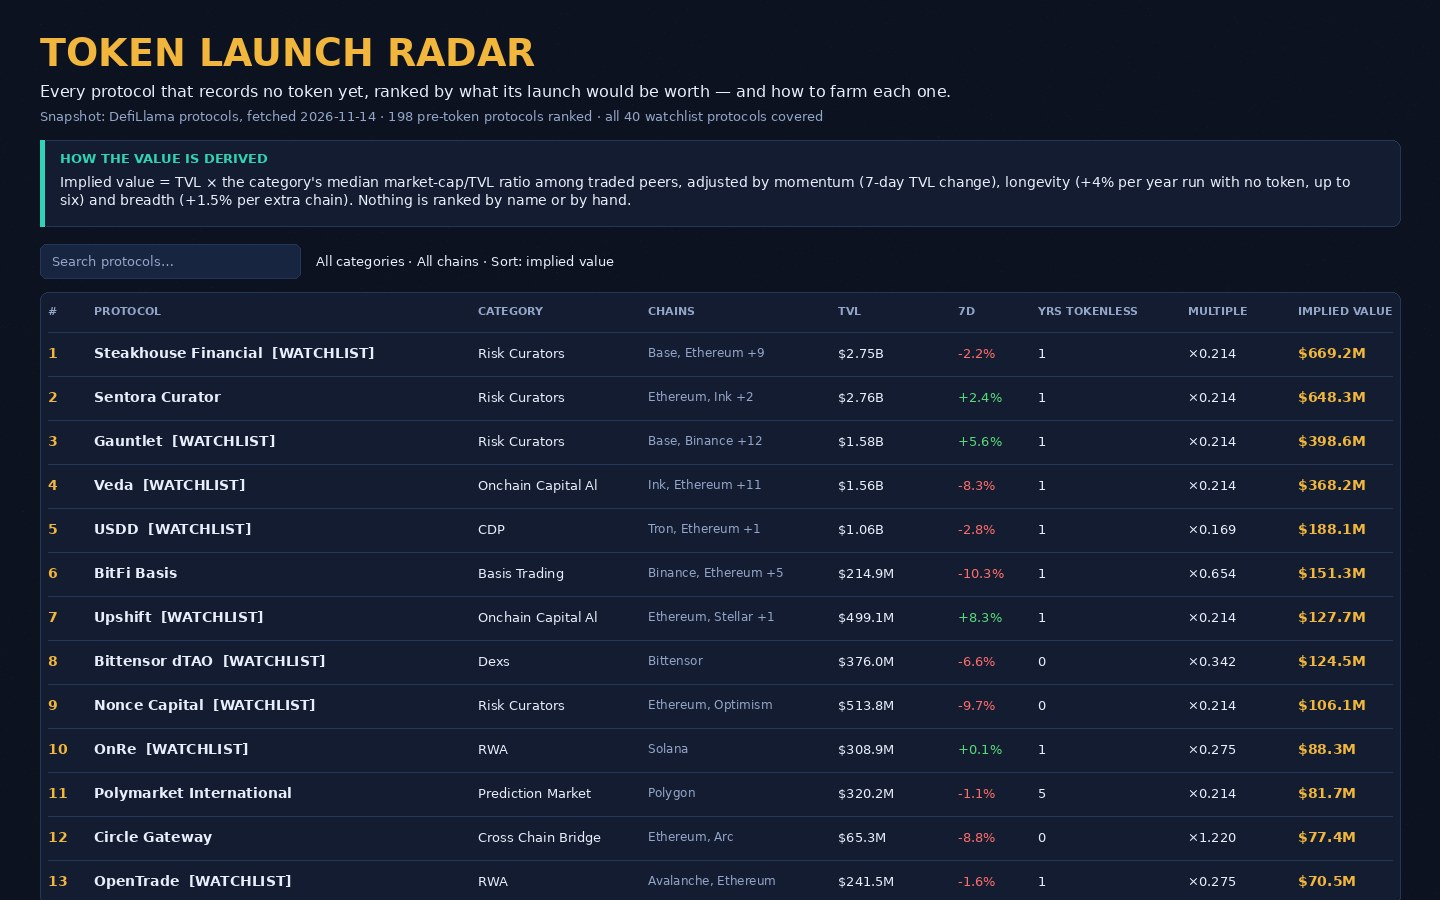
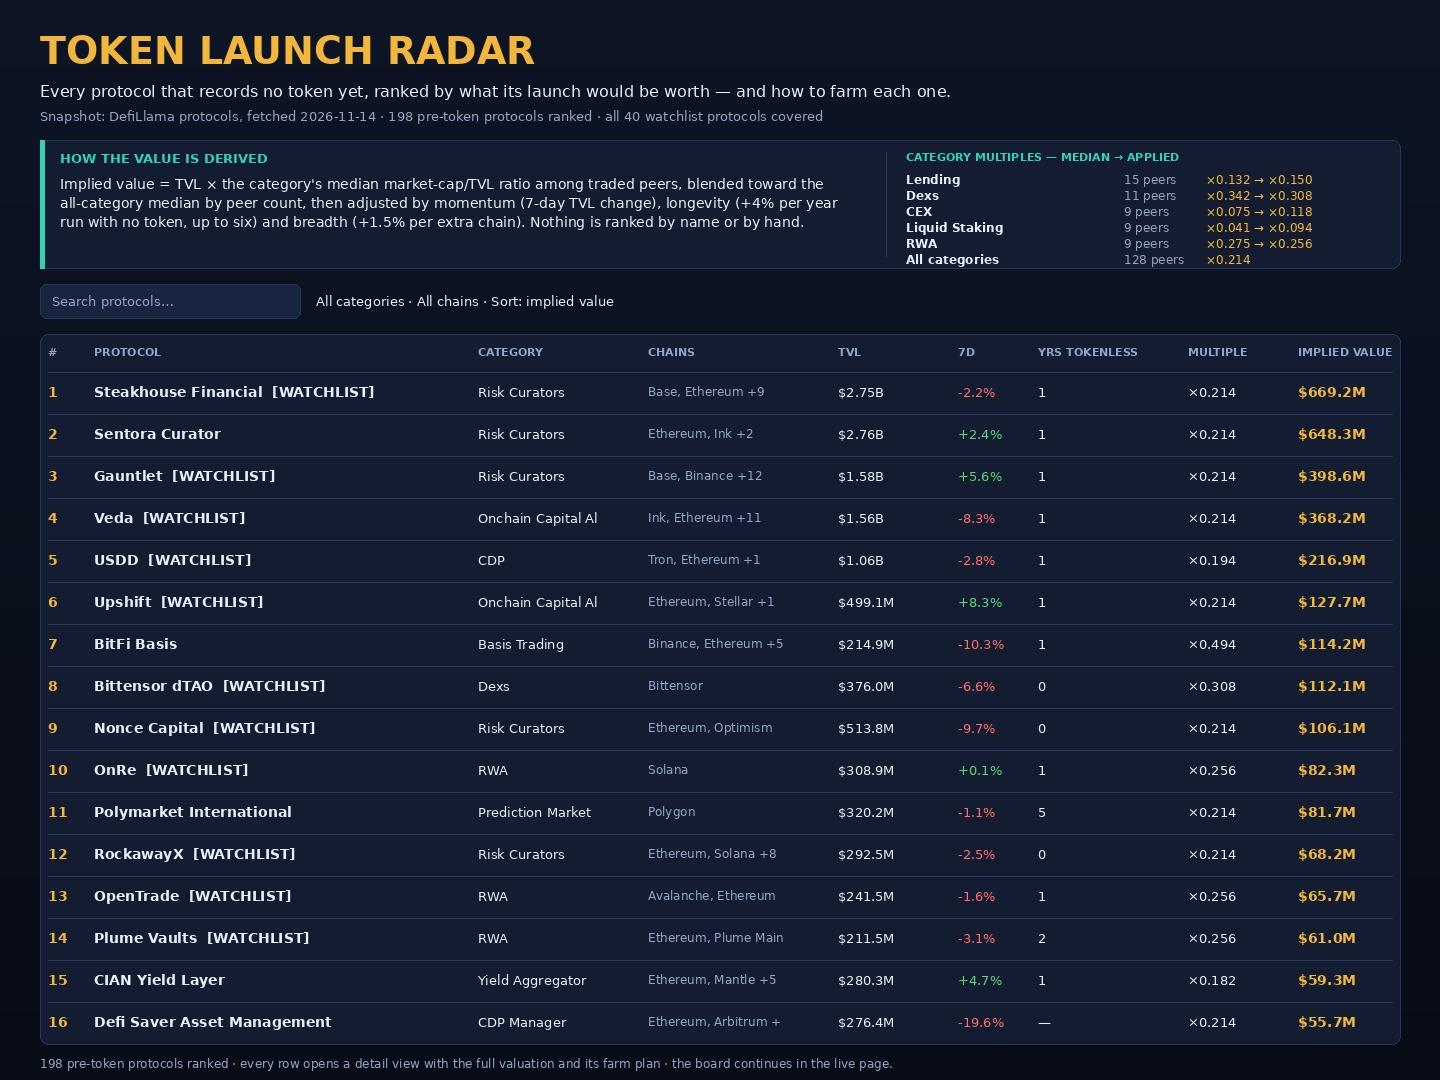
Upgrade the radar: peer-count shrinkage on category multiples, five-step farm plans, multiples evidence table, clickable column sorting, rebuilt screenshots
- lib/model.ts: a category's median mcap/TVL is now blended toward the
  all-category median by peer count (applied = (n*median + 4*global)/(n+4)),
  so thin categories no longer speak as loudly as deep ones; rows carry the
  raw median beside the applied multiple; every farm playbook gains a fifth
  monthly-monitoring step with its own cost and duration; the radar output
  gains the category multiples table.
- dashboard: a multiples evidence panel under the model summary, the model
  text and detail formula now show the median-to-applied blend, and the
  board's column headings sort on click.
- screenshots rebuilt at 1440x1080 from the real board: the board shot
  carries the multiples table, the detail shot shows the full five-step
  plan and stats, and the filtered shot is an honest watchlist-only view
  of Risk Curators (12 protocols) instead of a mislabelled fallback.

diff --git a/lib/model.ts b/lib/model.ts
@@ -8,10 +8,13 @@
 // market cap to TVL. The model takes the median of that ratio per category
 // (only categories with at least three traded peers speak for themselves;
 // the rest borrow the all-category median) and applies it to a pre-token
-// protocol's TVL. Three adjustments follow, each from the protocol's own
-// record: momentum (its 7-day TVL change), longevity (how many years it has
-// run with no token — a protocol that survived years tokenless has a product
-// people use for its own sake), and breadth (how many chains its TVL spans).
+// protocol's TVL. A category's median is shrunk toward the all-category
+// median in proportion to how few peers back it, so a ratio drawn from three
+// traded protocols never speaks as loudly as one drawn from thirty.
+// Three adjustments follow, each from the protocol's own record: momentum
+// (its 7-day TVL change), longevity (how many years it has run with no
+// token — a protocol that survived years tokenless has a product people use
+// for its own sake), and breadth (how many chains its TVL spans).
 // The board ranks by the result.
 
 export interface Protocol {
@@ -67,7 +70,12 @@ export const recordsNoToken = (p: Protocol): boolean => p.gecko_id === null && p
 // ------------------------------------------------------------ the multiples
 
 export interface Multiple {
+  /** The group's raw median market-cap-to-TVL ratio. */
   median: number;
+  /** The multiple the board applies: the median shrunk toward the
+   *  all-category median by peer count (for the global group, the median
+   *  itself — there is nothing wider to shrink toward). */
+  applied: number;
   peers: number;
 }
 
@@ -76,6 +84,14 @@ function median(values: number[]): number {
   const mid = Math.floor(sorted.length / 2);
   return sorted.length % 2 === 1 ? sorted[mid]! : (sorted[mid - 1]! + sorted[mid]!) / 2;
 }
+
+// Shrinkage weight, in phantom peers: a category's applied multiple is the
+// peer-count-weighted blend of its own median and the all-category median,
+//   applied = (n × category median + SHRINKAGE × global median) / (n + SHRINKAGE).
+// With SHRINKAGE = 4, a category backed by 3 traded peers leans most of the
+// way toward the global figure, while one backed by 30 barely moves. The
+// blend is still computed only from the snapshot's own ratios.
+const SHRINKAGE = 4;
 
 /** What the market pays per TVL dollar, per category, from traded protocols. */
 export function categoryMultiples(snapshot: Snapshot): { byCategory: Map<string, Multiple>; global: Multiple } {
@@ -91,18 +107,28 @@ export function categoryMultiples(snapshot: Snapshot): { byCategory: Map<string,
     list.push(ratio);
     ratios.set(key, list);
   }
+  const globalMedian = median(all);
   const byCategory = new Map<string, Multiple>();
   for (const [key, list] of ratios) {
-    if (list.length >= 3) byCategory.set(key, { median: median(list), peers: list.length });
+    if (list.length < 3) continue;
+    const med = median(list);
+    byCategory.set(key, {
+      median: med,
+      applied: (list.length * med + SHRINKAGE * globalMedian) / (list.length + SHRINKAGE),
+      peers: list.length,
+    });
   }
-  return { byCategory, global: { median: median(all), peers: all.length } };
+  return { byCategory, global: { median: globalMedian, applied: globalMedian, peers: all.length } };
 }
 
 // ------------------------------------------------------------ the valuation
 
 export interface Valuation {
   implied_value_usd: number;
+  /** The multiple applied to TVL (the category median after shrinkage). */
   multiple: number;
+  /** The raw median behind it, before shrinkage toward the global median. */
+  multiple_median: number;
   multiple_peers: number;
   multiple_category: string;
   momentum_factor: number;
@@ -134,10 +160,11 @@ export function valueProtocol(
   // Breadth: TVL spread over more chains is harder to fake and likelier to
   // be valued as infrastructure.
   const breadth = 1 + Math.min(Math.max(p.chains.length - 1, 0), 7) * 0.015;
-  const raw = p.tvl_usd * chosen.median * momentum * longevity * breadth;
+  const raw = p.tvl_usd * chosen.applied * momentum * longevity * breadth;
   return {
     implied_value_usd: Math.max(1, Math.round(raw)),
-    multiple: chosen.median,
+    multiple: chosen.applied,
+    multiple_median: chosen.median,
     multiple_peers: chosen.peers,
     multiple_category: own ? key : 'all categories',
     momentum_factor: momentum,
@@ -171,6 +198,7 @@ function planFor(p: Protocol): string[] {
       `Provide liquidity to a core pair on ${name} — ${size}. Leave it at least 8 weeks; short hops in and out read as farming and earn little. Cost: gas to enter and exit, plus impermanent loss risk.`,
       `Use the advanced surface too: one limit order, one range adjustment or one perp trade a week, so your history is a user's, not a bot's. Cost: minutes; fees as traded.`,
       `Hold the position through a full quarter and vote in any governance or feedback round ${name} opens. Launches reward duration and breadth of use more than raw size.`,
+      `Check in monthly: note your volume tier and any points or season announcement ${name} makes, and keep your own record of fees paid. Cost: 10 minutes a month — a launch snapshots the history you already hold, not a last-week rush.`,
     ];
   }
   if (cat.includes('lending') || cat.includes('cdp') || cat.includes('money')) {
@@ -179,6 +207,7 @@ function planFor(p: Protocol): string[] {
       `Borrow a small amount against it — 20-30% of the supplied value — hold it a week, then repay in full. A completed borrow-and-repay cycle is the usage signal lenders record. Cost: the interest spread for the week.`,
       `Keep the supply in place for 8-12 weeks and keep the health factor above 2 at all times; a liquidation wipes the position and the history with it. Check it weekly, five minutes.`,
       `Repeat the borrow cycle monthly and use any second market ${name} runs on ${chain}. Steady, boring, long-lived accounts are what lending launches have rewarded.`,
+      `Review the position monthly: top up collateral if markets moved, and read any points or loyalty announcement ${name} publishes. Cost: 10 minutes a month. When a launch comes it snapshots long-lived suppliers, not last-minute deposits.`,
     ];
   }
   if (cat.includes('curator') || cat.includes('allocator') || cat.includes('risk')) {
@@ -187,6 +216,7 @@ function planFor(p: Protocol): string[] {
       `Stay in the vault at least 8-12 weeks. Curators can snapshot vault share over time, and steady depositors are the audience a curator token would be dropped to.`,
       `Spread a second, smaller deposit across a different vault or chain ${name} curates, so your history covers more than its flagship. Cost: one more round of gas.`,
       `Withdraw nothing in the first quarter unless a vault's risk profile changes materially; churn in and out is visible and reads as mercenary farming.`,
+      `Re-read the curator's own reports monthly — allocation notes, risk updates, any points programme ${name} announces. Cost: 15 minutes a month. A curator launch rewards depositors who stayed informed, not just early.`,
     ];
   }
   if (cat.includes('yield') || cat.includes('aggregat') || cat.includes('farm')) {
@@ -195,6 +225,7 @@ function planFor(p: Protocol): string[] {
       `Stay deposited at least 8 weeks and let rewards compound or claim them monthly; vault share over time is the metric yield protocols can snapshot.`,
       `Split a second, smaller deposit into a different vault or strategy ${name} offers, so your history covers more than the default option. Cost: one more round of gas.`,
       `Withdraw nothing before a full quarter passes unless the vault's strategy changes materially. Churn is visible on-chain and counts against you.`,
+      `Track your vault share monthly and read any points or season announcement ${name} makes. Cost: 10 minutes a month. Yield launches snapshot share held over time, so the record you build now is the eligibility list later.`,
     ];
   }
   if (cat.includes('rwa') || cat.includes('real world')) {
@@ -203,6 +234,7 @@ function planFor(p: Protocol): string[] {
       `Hold its core tokenised asset (a treasury or credit product) on ${chain} — ${size}. Cost: purchase spread plus gas; hold at least a quarter.`,
       `Use the secondary features: redeem a small amount once, re-subscribe, and read the monthly reports, so the account shows a full lifecycle. Cost: an hour across the quarter.`,
       `Join the holder or governance channel and answer any holder survey; RWA launches have favoured verified, long-held accounts over large new ones.`,
+      `Keep the verified account active: log in monthly, read the monthly report, and note any holder programme ${name} announces. Cost: 15 minutes a month. Eligibility lists for RWA launches are usually drawn from accounts still active at the snapshot.`,
     ];
   }
   if (cat.includes('launchpad') || cat.includes('ido') || cat.includes('pad')) {
@@ -211,6 +243,7 @@ function planFor(p: Protocol): string[] {
       `Take part in one small sale or staking round at the minimum sensible size — ${size} — rather than watching from outside. Cost: the ticket plus gas.`,
       `Repeat across two or three sales over a quarter; launchpads reward repeat participants when they issue their own token. Time: an hour a month.`,
       `Claim and hold whatever the sales distribute instead of flipping on day one; held allocations are the history a launch snapshot can see.`,
+      `Check the tier table monthly: tiers are recalculated as new sales open, and a small top-up participation can hold your tier. Cost: 10 minutes a month plus any ticket you choose. A launchpad's own token usually drops first to the tiers it already keeps.`,
     ];
   }
   if (cat.includes('nft')) {
@@ -219,6 +252,7 @@ function planFor(p: Protocol): string[] {
       `Use its lending, rental or rewards surface if it has one, once a month for a quarter. Cost: gas per use; an hour a month in total.`,
       `Keep a modest balance or listed inventory live rather than sweeping through once — duration is the cheapest signal to give. ${size.charAt(0).toUpperCase() + size.slice(1)} if you buy in.`,
       `Join the creator or trader programme ${name} runs, if any, and complete its first tier; programme tiers are ready-made eligibility lists.`,
+      `Keep the programme tier warm: one listing or trade a month holds most tiers, and note any rewards season ${name} announces. Cost: an hour a month at most. Marketplace launches have dropped to programme members before the wider user base.`,
     ];
   }
   if (cat.includes('gaming') || cat.includes('game')) {
@@ -227,6 +261,7 @@ function planFor(p: Protocol): string[] {
       `Hold a small in-game asset or currency balance — ${size} — and use the marketplace once, buying or selling a single item. Cost: the item plus marketplace fees.`,
       `Play weekly for a season (8-12 weeks) rather than in one binge; retention across weeks is the metric game launches snapshot. 30 minutes a week.`,
       `Enter one community event, tournament or quest ${name} runs and finish it; event completion lists are commonly reused as airdrop lists.`,
+      `Log your season record monthly — level, items held, events finished — and watch for a points or season announcement from ${name}. Cost: 10 minutes a month. Game launches snapshot season history, and a kept record proves yours if a claim is ever disputed.`,
     ];
   }
   if (cat.includes('oracle') || cat.includes('infrastructure') || cat.includes('service') || cat.includes('index')) {
@@ -235,6 +270,7 @@ function planFor(p: Protocol): string[] {
       `If it runs staking, delegation or a node programme, join at the minimum tier — ${size}. Cost: the stake, locked for the programme's term.`,
       `Stay active a full quarter and keep the integration live; infrastructure launches reward accounts with continuous, not bursty, usage.`,
       `Take part in its developer or operator community: one useful bug report, answer or piece of feedback outweighs months of passive holding. Cost: an hour or two.`,
+      `Keep a monthly usage log — uptime of your integration or node, requests served, fees paid — and read any operator programme ${name} announces. Cost: 20 minutes a month. Infrastructure launches allocate to operators who can show continuous service, and the log is the proof.`,
     ];
   }
   return [
@@ -242,6 +278,7 @@ function planFor(p: Protocol): string[] {
     `Hold a working position sized to the protocol — ${size} — and leave it in place at least 8 weeks. Duration, not size, is what a snapshot can verify.`,
     `Cover the second feature too: if it offers staking, governance, a vault or a pro mode, use each once so your history spans the product. Cost: an extra hour, plus gas.`,
     `Join its community and governance channels and vote or comment once; when a launch comes, engaged long-term users are the list every team starts from.`,
+    `Set a monthly reminder to re-check ${name}: one real use, a glance at its announcements, and a note of any points programme it opens. Cost: 15 minutes a month. Launches snapshot steady users; the habit is the whole strategy.`,
   ];
 }
 
@@ -260,6 +297,13 @@ export interface BoardRow extends Valuation {
   farm_steps: string[];
 }
 
+export interface CategoryMultiple {
+  category: string;
+  peers: number;
+  median: number;
+  applied: number;
+}
+
 export interface Radar {
   as_of: string;
   source: string;
@@ -269,6 +313,9 @@ export interface Radar {
   traded_set_aside: number;
   products_set_aside: number;
   global_multiple: Multiple;
+  /** Every category with at least three traded peers, most peers first:
+   *  the evidence table behind the multiples the board applies. */
+  multiples: CategoryMultiple[];
 }
 
 export function buildRadar(snapshot: Snapshot): Radar {
@@ -314,6 +361,9 @@ export function buildRadar(snapshot: Snapshot): Radar {
     traded_set_aside: traded,
     products_set_aside: products,
     global_multiple: multiples.global,
+    multiples: [...multiples.byCategory.entries()]
+      .map(([category, m]) => ({ category, peers: m.peers, median: m.median, applied: m.applied }))
+      .sort((a, b) => b.peers - a.peers || (a.category < b.category ? -1 : 1)),
   };
 }
 

diff --git a/dashboard/app.js b/dashboard/app.js
@@ -24,9 +24,31 @@ $('meta').textContent =
 $('model-text').textContent =
   `Traded protocols reveal what the market pays for a dollar of TVL in their category: the median market-cap-to-TVL ratio ` +
   `(across all categories here, ×${radar.global_multiple.median.toFixed(3)} from ${radar.global_multiple.peers} traded protocols). ` +
-  `A pre-token protocol's implied value is its TVL times its category's median ratio, adjusted by three factors from its own record: ` +
+  `A category's median is blended toward that all-category figure in proportion to how few traded peers back it — three peers lean most of the way, thirty barely move — ` +
+  `and a category with fewer than three traded peers borrows the all-category figure outright. ` +
+  `A pre-token protocol's implied value is its TVL times its category's applied multiple, adjusted by three factors from its own record: ` +
   `momentum (its 7-day TVL change), longevity (whole years run with no token, worth +4% a year up to six), and breadth (+1.5% per extra chain, up to seven). ` +
   `Nothing is ranked by name or by hand: change the snapshot and the board rebuilds itself.`;
+
+// The evidence table behind the multiples: every category that speaks for
+// itself, its raw median, and the blended multiple the board applies.
+$('multiples-rows').innerHTML =
+  radar.multiples
+    .map(
+      (m) => `<tr>
+        <td>${esc(m.category)}</td>
+        <td class="num">${m.peers}</td>
+        <td class="num">×${m.median.toFixed(3)}</td>
+        <td class="num value">×${m.applied.toFixed(3)}</td>
+      </tr>`,
+    )
+    .join('') +
+  `<tr class="global-row">
+        <td>All categories (fallback)</td>
+        <td class="num">${radar.global_multiple.peers}</td>
+        <td class="num">×${radar.global_multiple.median.toFixed(3)}</td>
+        <td class="num value">×${radar.global_multiple.applied.toFixed(3)}</td>
+      </tr>`;
 
 // ------------------------------------------------------------- the filters
 
@@ -64,9 +86,21 @@ function visible() {
   return list;
 }
 
+// Column headings sort too: clicking one drives the same sort select, and
+// the heading of the active order is marked.
+for (const th of document.querySelectorAll('th.sortable')) {
+  th.addEventListener('click', () => {
+    $('sort').value = th.dataset.sort;
+    render();
+  });
+}
+
 function render() {
   const list = visible();
   $('count').textContent = `${list.length} of ${rows.length} protocols`;
+  for (const th of document.querySelectorAll('th.sortable')) {
+    th.classList.toggle('sorted', th.dataset.sort === $('sort').value);
+  }
   $('rows').innerHTML = list
     .map(
       (r) => `<tr data-slug="${esc(r.slug)}">
@@ -98,8 +132,12 @@ function showDetail(slug) {
     <div class="big">${money(r.implied_value_usd)}</div>
     <div class="big-label">Implied launch value</div>
     <div class="formula">
-      TVL <b>${money(r.tvl_usd)}</b> × category multiple <b>×${r.multiple.toFixed(3)}</b>
-      (${esc(r.multiple_category)}, ${r.multiple_peers} traded peers)<br>
+      TVL <b>${money(r.tvl_usd)}</b> × applied multiple <b>×${r.multiple.toFixed(3)}</b><br>
+      ${
+        r.multiple_category === 'all categories'
+          ? `(the all-category median from ${r.multiple_peers} traded peers — this category has fewer than three of its own)`
+          : `(the ${esc(r.multiple_category)} median is ×${r.multiple_median.toFixed(3)} from ${r.multiple_peers} traded peers, blended toward the all-category ×${radar.global_multiple.median.toFixed(3)})`
+      }<br>
       × momentum <b>${factor(r.momentum_factor)}</b> (7-day TVL ${pct(r.change_7d)})
       × longevity <b>${factor(r.longevity_factor)}</b> (${r.years_tokenless === null ? 'listing date unreported' : `${r.years_tokenless} years with no token`})
       × breadth <b>${factor(r.breadth_factor)}</b> (${r.chains.length} chain${r.chains.length === 1 ? '' : 's'})

diff --git a/dashboard/index.html b/dashboard/index.html
@@ -17,6 +17,16 @@
     <h2>How the value is derived</h2>
     <p id="model-text"></p>
   </section>
+  <section class="model multiples" id="multiples">
+    <h2>The multiples, from the snapshot itself</h2>
+    <table id="multiples-table">
+      <thead>
+        <tr><th>Category</th><th>Traded peers</th><th>Median mcap / TVL</th><th>Applied to the board</th></tr>
+      </thead>
+      <tbody id="multiples-rows"></tbody>
+    </table>
+    <p class="multiples-note">A category's applied multiple blends its own median with the all-category median in proportion to its peer count, so thin evidence leans on the whole market and deep evidence stands on its own. Categories with fewer than three traded peers borrow the all-category line.</p>
+  </section>
   <div class="controls">
     <input id="search" type="search" placeholder="Search protocols…">
     <select id="category"><option value="">All categories</option></select>
@@ -34,7 +44,7 @@
 <main>
   <table id="board">
     <thead>
-      <tr><th>#</th><th>Protocol</th><th>Category</th><th>Chains</th><th>TVL</th><th>7d</th><th>Years tokenless</th><th>Multiple</th><th>Implied value</th></tr>
+      <tr><th class="sortable" data-sort="rank" title="Sort by implied value">#</th><th>Protocol</th><th>Category</th><th>Chains</th><th class="sortable" data-sort="tvl" title="Sort by TVL">TVL</th><th class="sortable" data-sort="change" title="Sort by 7-day growth">7d</th><th class="sortable" data-sort="years" title="Sort by years tokenless">Years tokenless</th><th>Multiple</th><th>Implied value</th></tr>
     </thead>
     <tbody id="rows"></tbody>
   </table>

diff --git a/dashboard/app.css b/dashboard/app.css
@@ -37,6 +37,11 @@ header { padding: 28px 34px 0; max-width: 1240px; margin: 0 auto; }
 }
 .model h2 { margin: 0 0 6px; font-size: 15px; letter-spacing: 1px; color: var(--teal); text-transform: uppercase; }
 .model p { margin: 0; line-height: 1.6; color: var(--text); }
+.multiples table { border: none; background: none; }
+.multiples th, .multiples td { padding: 5px 10px 5px 0; border-bottom: 1px solid var(--line); white-space: nowrap; }
+.multiples th { background: none; }
+.multiples .global-row td { color: var(--muted); }
+.multiples-note { margin-top: 10px !important; color: var(--muted); font-size: 13px; }
 .controls {
   display: flex;
   flex-wrap: wrap;
@@ -59,6 +64,10 @@ main { max-width: 1240px; margin: 0 auto; padding: 0 34px 30px; position: relati
 table { width: 100%; border-collapse: collapse; background: var(--panel); border: 1px solid var(--line); border-radius: 8px; overflow: hidden; }
 th, td { padding: 9px 12px; text-align: left; border-bottom: 1px solid var(--line); white-space: nowrap; }
 th { color: var(--muted); font-size: 12px; text-transform: uppercase; letter-spacing: 1px; background: var(--panel-2); }
+th.sortable { cursor: pointer; }
+th.sortable:hover { color: var(--text); }
+th.sortable.sorted { color: var(--gold); }
+th.sortable.sorted::after { content: " ▾"; }
 td.num, th.num { text-align: right; }
 tbody tr { cursor: pointer; }
 tbody tr:hover { background: var(--panel-2); }

diff --git a/README.md b/README.md
@@ -4,7 +4,7 @@
 [![rank](https://make.fun/badge/token-radar-01/rsyh17/token-radar/rank.svg)](https://make.fun/bounty/token-radar-01/leaderboard?utm_source=github&utm_medium=readme&utm_campaign=token-radar-01)
 [![reward](https://make.fun/badge/token-radar-01/rsyh17/token-radar/reward.svg)](https://make.fun/bounty/token-radar-01?utm_source=github&utm_medium=readme&utm_campaign=token-radar-01)
 
-A token launch radar over the sealed DefiLlama snapshot: it ranks 198 protocols that record no token yet by an implied launch value derived only from the snapshot's own figures — each protocol's TVL times its category's median market-cap/TVL ratio among traded peers, adjusted for 7-day momentum, years run with no token, and chain breadth. Protocols whose token already trades, and wrapped, staked or bridged products of them, are set aside. The dashboard is a static page with search, category and chain filters, four sort orders and a detail view per protocol showing the valuation arithmetic and a concrete farm plan with costs and durations.
+A token launch radar over the sealed DefiLlama snapshot: it ranks 198 protocols that record no token yet by an implied launch value derived only from the snapshot's own figures — each protocol's TVL times its category's median market-cap/TVL ratio among traded peers, blended toward the all-category median in proportion to how few peers back it, and adjusted for 7-day momentum, years run with no token, and chain breadth. Protocols whose token already trades, and wrapped, staked or bridged products of them, are set aside. The dashboard is a static page with a category-multiples evidence table, search, category and chain filters, four sort orders (the column headings sort too), and a detail view per protocol showing the full valuation arithmetic and a concrete five-step farm plan with costs and durations.
 
 ## Run it
 
